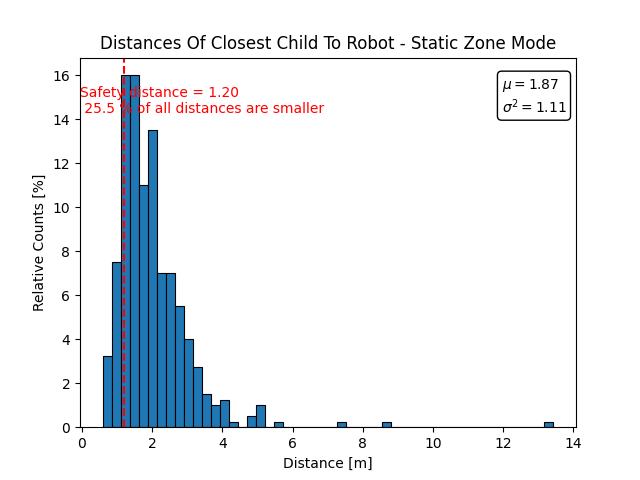
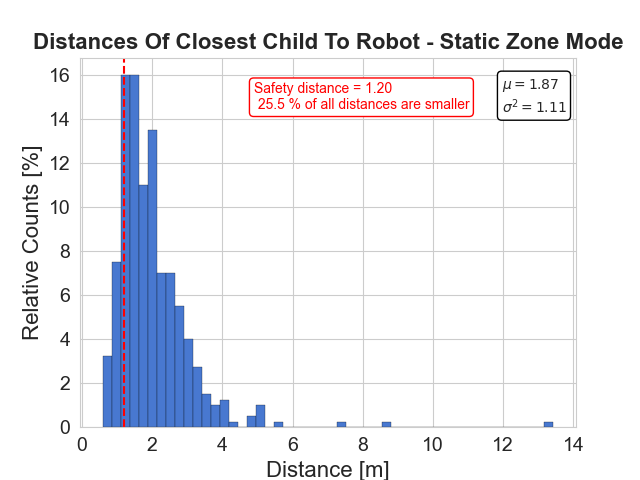
refined semantic drl plots

diff --git a/arena_navigation/arena_local_planner/evaluation/scripts/semantic_plots/plotforcomparison.py b/arena_navigation/arena_local_planner/evaluation/scripts/semantic_plots/plotforcomparison.py
@@ -3,7 +3,10 @@ import matplotlib.pyplot as plt
 import csv
 import os
 import pandas as pd
+import seaborn as sns
 
+sns.set_style("whitegrid")
+blue, = sns.color_palette("muted", 1)
 
 
 path = 'comparison/'
@@ -119,20 +122,20 @@ class_color = ['tab:red','tab:blue','tab:green','tab:orange']
 x=np.arange(len_file)
 width = 0.1
 fig,ax = plt.subplots()
-
+ax.grid('on')
 for i in range(len(x_labels)):
     ax.bar(x+i*width,y[i],width,alpha=0.9,color=class_color[i])
     
-plt.annotate('$AT_{raw} = %.2fs$'%(AET[0]) + ' \n$AT_{sz} = %.2fs$'%(AET[1])+' \n$AT_{dz} = %.2fs$'%(AET[2]), xy=(0.25, 0.8), xycoords='axes fraction',bbox=dict(boxstyle="round", fc="w"))
-plt.legend(x_labels)
+plt.annotate('$AT_{raw} = %.2fs$'%(AET[0]) + ' \n$AT_{sz} = %.2fs$'%(AET[1])+' \n$AT_{dz} = %.2fs$'%(AET[2]), xy=(0.4, 0.8), xycoords='axes fraction',bbox=dict(boxstyle="round", fc="w",edgecolor='black'))
+plt.legend(x_labels, loc="best")
 ax.set_xticks(x+1.5*width)
 ax.set_xticklabels(['Raw','Static Zone','Dynamic Zone'])
 # ax.set_xticks([x+width])
 # ax.set_xticklabels(x_labels)
-plt.title('Average Time Within Safety Zone')
+plt.title('Average Time Within Safety Zone',fontsize=16, fontweight='bold')
 # plt.xlabel('time/s')
-plt.ylabel('Time [%]')
-plt.xlabel('Agent Mode')
+plt.ylabel('Time [%]', fontsize=16)
+plt.xlabel('Agent Mode', fontsize=16)
 plt.savefig(path + 'bar_chart_exceeding_counts_about_Time')
 plt.clf()
 
@@ -146,16 +149,18 @@ width = 0.1
 fig,ax = plt.subplots()
 
 for i in range(len(x_labels)):
-    ax.bar(x+i*width,y_dist[i],width,alpha=0.9,color=class_color[i])
+    ax.bar(x+i*width,y_dist[i],width,alpha=0.7,color=class_color[i])
 
-plt.annotate('$SR_{raw} = %.2f$'%(success_rate[0]) + ' $CR_{raw} = %.2f$'%(collision_rate[0])+'\n$SR_{sz} = %.2f$'%(success_rate[1]) + ' $CR_{sz} = %.2f$'%(collision_rate[1])+'\n$SR_{dz} = %.2f$'%(success_rate[2]) + ' $CR_{dz} = %.2f$'%(collision_rate[2]), xy=(0.6, 0.05), xycoords='axes fraction')#,bbox=dict(boxstyle="round", fc="w")
+plt.annotate('$SR_{raw} = %.2f$'%(success_rate[0]) + ' $CR_{raw} = %.2f$'%(collision_rate[0])+'\n$SR_{sz} = %.2f$'%(success_rate[1]) + ' $CR_{sz} = %.2f$'%(collision_rate[1])+'\n$SR_{dz} = %.2f$'%(success_rate[2]) + ' $CR_{dz} = %.2f$'%(collision_rate[2]), xy=(0.6, 0.05), xycoords='axes fraction',bbox=dict(boxstyle="round", fc="w",edgecolor='black'))
 # plt.annotate('$sr1 = %.2f$'%(success_rate1) + ' \n$cr1 = %.2f$'%(collision_rate1), xy=(0.3, 0.85), xycoords='axes fraction',bbox=dict(boxstyle="round", fc="w"))
 plt.legend(x_labels,framealpha=0.4)
 ax.set_xticks(x+1.5*width)
 ax.set_xticklabels(['Raw','Static Zone','Dynamic Zone'])
-plt.title('Average Distance To Each Obstacle Type')
-plt.ylabel('Distance [m]')
-plt.xlabel('Agent Mode')
+plt.xticks(fontsize=14)
+plt.yticks(fontsize=14)
+plt.title('Average Distance To Each Obstacle Type', fontsize=20, fontweight='bold')
+plt.ylabel('Distance [m]', fontsize=16)
+plt.xlabel('Agent Mode', fontsize=16)
 plt.savefig(path + 'average_distance')
 plt.clf()
 
@@ -176,13 +181,15 @@ for j in range(len_file):
         num_smaller_than_safety_distance = len(human_robot_distances[human_robot_distances < dic_safe[i]])
 
         plt.figure(i+j+1)
-        plt.hist(bins[:-1],bins=bins,weights=counts/total_number*100, align = 'right',edgecolor='black', linewidth=0.8)
+        plt.hist(bins[:-1],bins=bins,weights=counts/total_number*100, align = 'right',edgecolor='black', linewidth=0.2, color=blue)
         plt.axvline(dic_safe[i], color='r', linestyle='dashed', linewidth=1.5)
-        plt.annotate('Safety distance = %.2f'%(dic_safe[i]) + '\n %.1f %% of all distances are smaller'%(num_smaller_than_safety_distance/total_number*100), xy=(0, 0.85), xycoords='axes fraction',color = 'red')
-        plt.annotate('$\mu = %.2f$'%(mu) + ' \n$\sigma^2 = %.2f$'%(std), xy=(0.85, 0.85), xycoords='axes fraction',bbox=dict(boxstyle="round", fc="w"))
-        plt.title('Distances Of Closest '+ dic_h[i] +' To Robot - '+mode[j]+' Mode')
-        plt.xlabel('Distance [m]')
-        plt.ylabel('Relative Counts [%]')
+        plt.annotate('Safety distance = %.2f'%(dic_safe[i]) + '\n %.1f %% of all distances are smaller'%(num_smaller_than_safety_distance/total_number*100), xy=(0.35, 0.86), xycoords='axes fraction',color = 'red', bbox=dict(boxstyle="round", fc="w",edgecolor='red'))
+        plt.annotate('$\mu = %.2f$'%(mu) + ' \n$\sigma^2 = %.2f$'%(std), xy=(0.85, 0.85), xycoords='axes fraction', bbox=dict(boxstyle="round", fc="w",edgecolor='black'))
+        plt.title('Distances Of Closest '+ dic_h[i] +' To Robot - '+mode[j]+' Mode', fontsize=16, fontweight='bold')
+        plt.xlabel('Distance [m]', fontsize=16)
+        plt.ylabel('Relative Counts [%]', fontsize=16)
+        plt.xticks(fontsize=14)
+        plt.yticks(fontsize=14)
         plt.savefig(path+dic_h[i]+'_distance_hist_'+mode[j])
         plt.clf()
 
